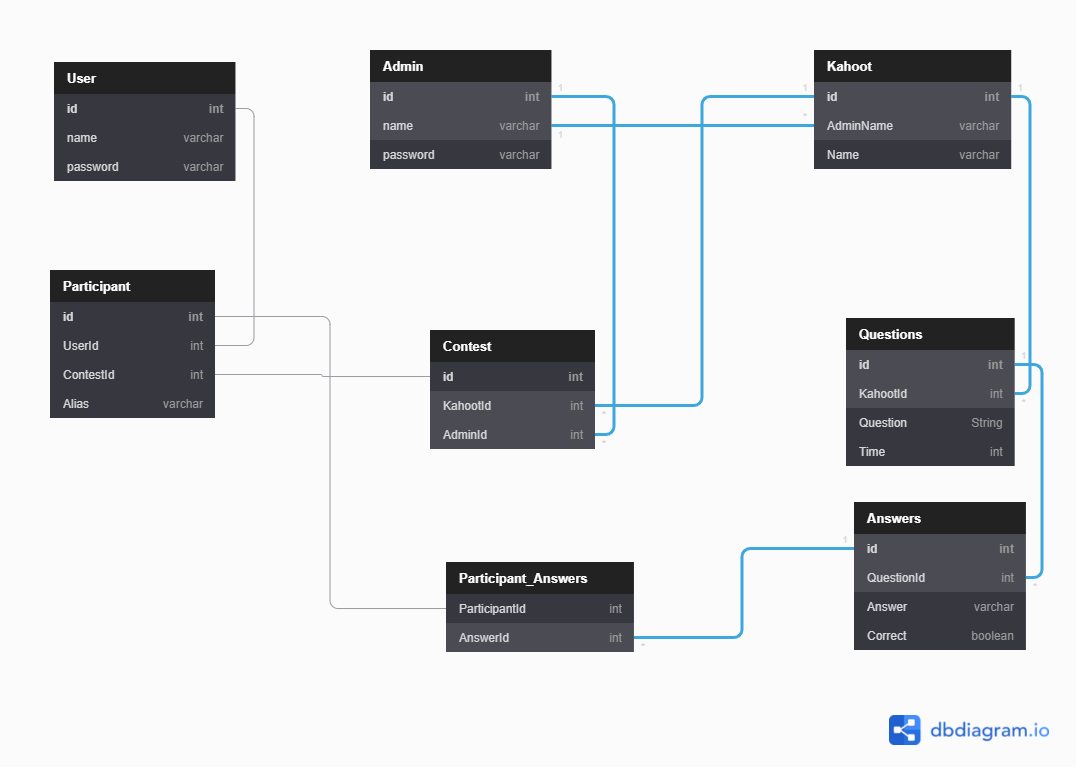
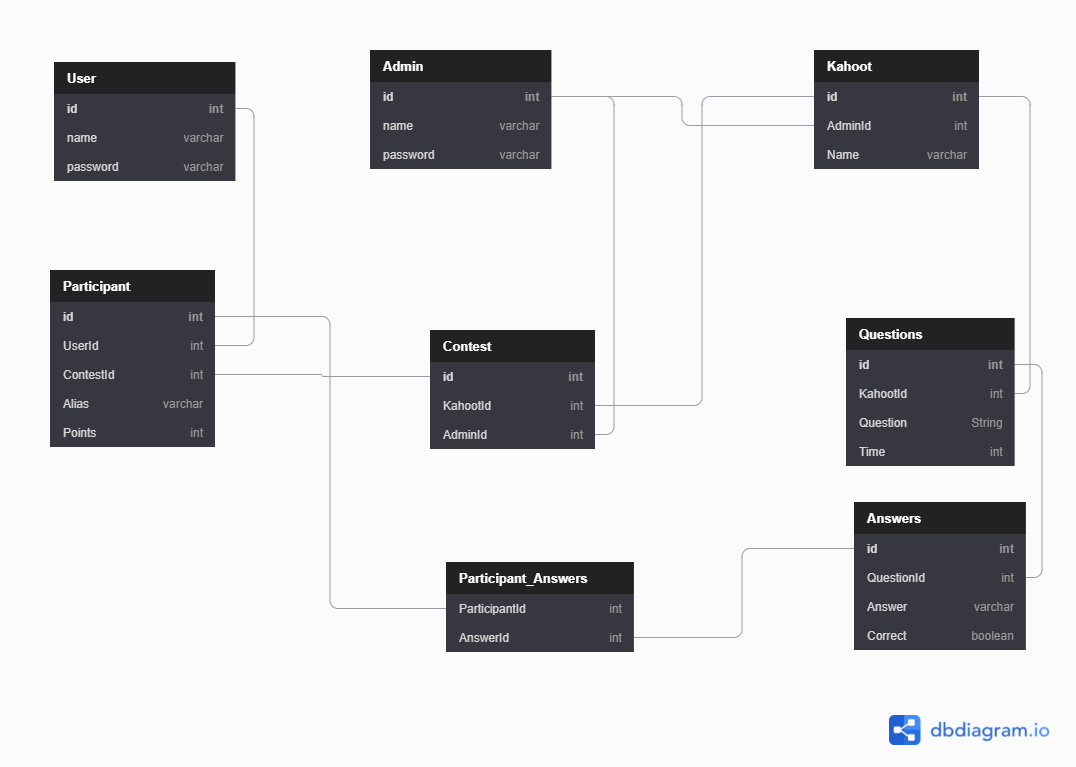
Participant now has Points

diff --git a/bbdd/util/HibernateUtil.java b/bbdd/util/HibernateUtil.java
@@ -30,7 +30,7 @@ public class HibernateUtil {
 				settings.put(Environment.DRIVER, "com.mysql.cj.jdbc.Driver");
 				settings.put(Environment.URL, "jdbc:mysql://localhost:3306/kahoot_db");
 				settings.put(Environment.USER, "root");
-				settings.put(Environment.PASS, "toor");
+				settings.put(Environment.PASS, "root");
 				settings.put(Environment.DIALECT, "org.hibernate.dialect.MySQL5Dialect");
 
 				settings.put(Environment.SHOW_SQL, "true");
@@ -40,8 +40,6 @@ public class HibernateUtil {
 				settings.put(Environment.HBM2DDL_AUTO, "update");
 
 				configuration.setProperties(settings);
-
-				// configuration.addAnnotatedClass(Table1.class);
 
 				configuration.addAnnotatedClass(Admin.class);
 				configuration.addAnnotatedClass(User.class);

diff --git a/bbdd/entity/Participant.java b/bbdd/entity/Participant.java
@@ -36,15 +36,25 @@ public class Participant {
 	@ManyToMany(mappedBy = "participants")
 	private List<Answers> answers;
 
+	@Column(name = "Points")
+	private int points;
+
+	public int getPoints() {
+		return points;
+	}
+
+	public void setPoints(int points) {
+		this.points = points;
+	}
+
 	public Participant() {
 
 	}
 
-	public Participant(String alias, Contest contest, User user) {
+	public Participant(String alias, Contest contest) {
 		super();
 		this.alias = alias;
 		this.contest = contest;
-		this.user = user;
 	}
 
 	public Participant(String alias) {

diff --git a/bbdd/entity/Kahoot.java b/bbdd/entity/Kahoot.java
@@ -27,7 +27,7 @@ public class Kahoot {
 	private String name;
 
 	@ManyToOne(fetch = FetchType.LAZY)
-	@JoinColumn(name = "Admin")
+	@JoinColumn(name = "AdminId")
 	private Admin admin;
 
 	@OneToMany(cascade = CascadeType.ALL, fetch = FetchType.LAZY, mappedBy = "kahoot")
